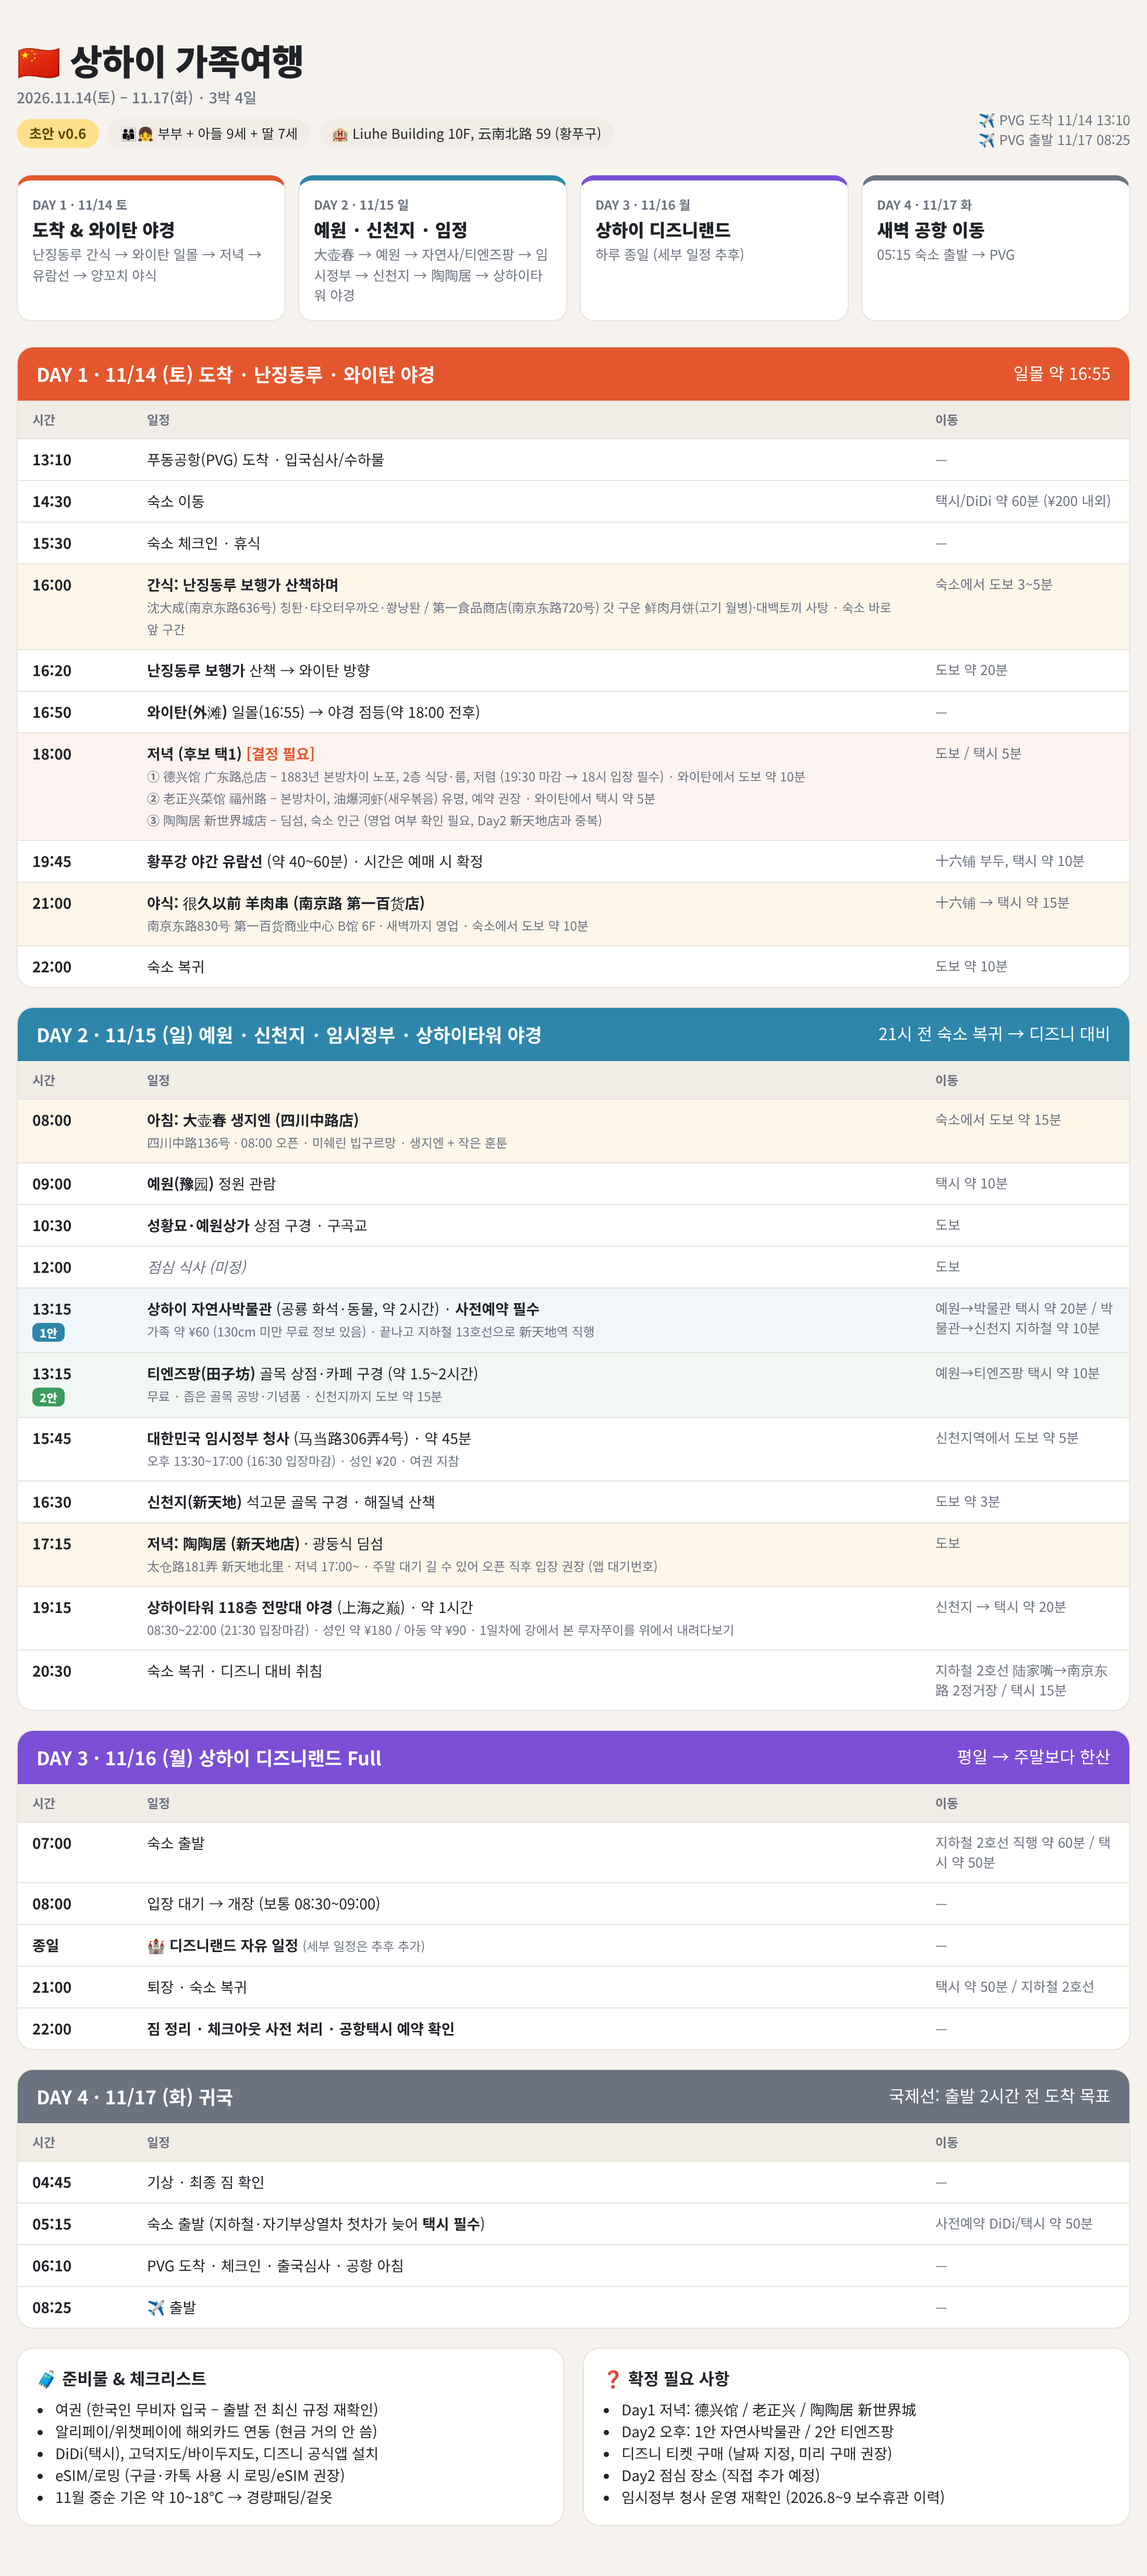
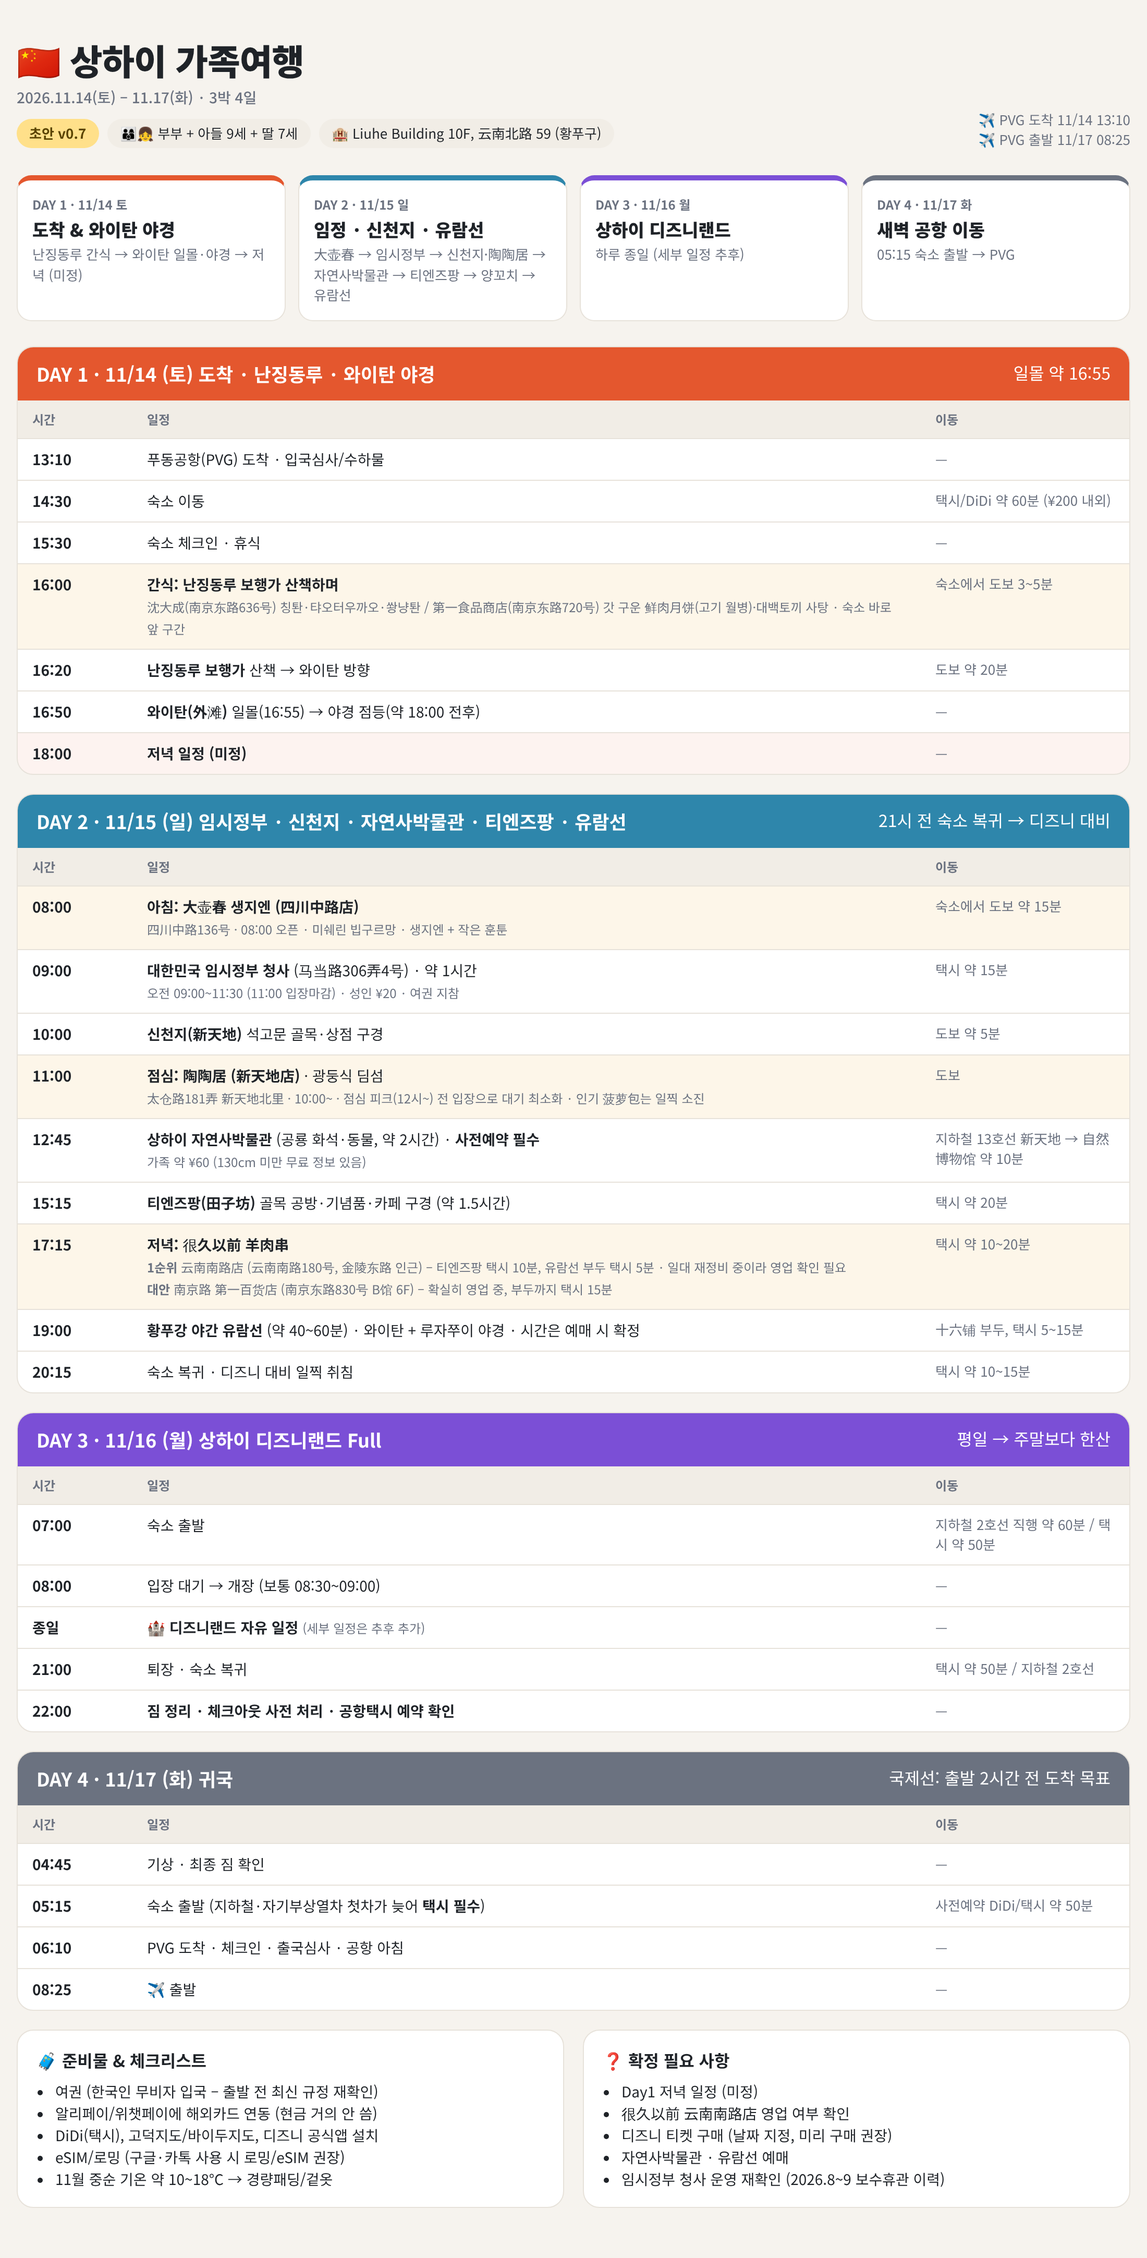
Itinerary v0.7: move river cruise to Day2, restructure Day2, clear Day1 evening
Claude-Session: https://claude.ai/code/session_01FtyK4HJW4ZkDiHshS9yHtF

diff --git a/index.html b/index.html
@@ -69,7 +69,7 @@
     <div>
       <h1>🇨🇳 상하이 가족여행 <small>2026.11.14(토) – 11.17(화) · 3박 4일</small></h1>
       <div style="margin-top:8px">
-        <span class="badge draft">초안 v0.6</span>
+        <span class="badge draft">초안 v0.7</span>
         <span class="badge">👨👩👦👧 부부 + 아들 9세 + 딸 7세</span>
         <span class="badge">🏨 Liuhe Building 10F, 云南北路 59 (황푸구)</span>
       </div>
@@ -80,8 +80,8 @@
   </header>
 
   <section class="summary">
-    <div class="sum" style="--c:var(--d1)"><div class="d">DAY 1 · 11/14 토</div><div class="t">도착 &amp; 와이탄 야경</div><div class="s">난징동루 간식 → 와이탄 일몰 → 저녁 → 유람선 → 양꼬치 야식</div></div>
-    <div class="sum" style="--c:var(--d2)"><div class="d">DAY 2 · 11/15 일</div><div class="t">예원 · 신천지 · 임정</div><div class="s">大壶春 → 예원 → 자연사/티엔즈팡 → 임시정부 → 신천지 → 陶陶居 → 상하이타워 야경</div></div>
+    <div class="sum" style="--c:var(--d1)"><div class="d">DAY 1 · 11/14 토</div><div class="t">도착 &amp; 와이탄 야경</div><div class="s">난징동루 간식 → 와이탄 일몰·야경 → 저녁 (미정)</div></div>
+    <div class="sum" style="--c:var(--d2)"><div class="d">DAY 2 · 11/15 일</div><div class="t">임정 · 신천지 · 유람선</div><div class="s">大壶春 → 임시정부 → 신천지·陶陶居 → 자연사박물관 → 티엔즈팡 → 양꼬치 → 유람선</div></div>
     <div class="sum" style="--c:var(--d3)"><div class="d">DAY 3 · 11/16 월</div><div class="t">상하이 디즈니랜드</div><div class="s">하루 종일 (세부 일정 추후)</div></div>
     <div class="sum" style="--c:var(--d4)"><div class="d">DAY 4 · 11/17 화</div><div class="t">새벽 공항 이동</div><div class="s">05:15 숙소 출발 → PVG</div></div>
   </section>
@@ -96,28 +96,23 @@
       <tr class="food"><td class="time">16:00</td><td><b>간식: 난징동루 보행가 산책하며</b><br><span class="sub">沈大成(南京东路636号) 칭퇀·탸오터우까오·쐉냥퇀 / 第一食品商店(南京东路720号) 갓 구운 鲜肉月饼(고기 월병)·대백토끼 사탕 · 숙소 바로 앞 구간</span></td><td class="move">숙소에서 도보 3~5분</td></tr>
       <tr><td class="time">16:20</td><td><b>난징동루 보행가</b> 산책 → 와이탄 방향</td><td class="move">도보 약 20분</td></tr>
       <tr><td class="time">16:50</td><td><b>와이탄(外滩)</b> 일몰(16:55) → 야경 점등(약 18:00 전후)</td><td class="move">—</td></tr>
-      <tr class="tbd"><td class="time">18:00</td><td><b>저녁 (후보 택1)</b> <span class="q">[결정 필요]</span><br><span class="sub"><b>①</b> 德兴馆 广东路总店 – 1883년 본방차이 노포, 2층 식당·룸, 저렴 (19:30 마감 → 18시 입장 필수) · 와이탄에서 도보 약 10분<br><b>②</b> 老正兴菜馆 福州路 – 본방차이, 油爆河虾(새우볶음) 유명, 예약 권장 · 와이탄에서 택시 약 5분<br><b>③</b> 陶陶居 新世界城店 – 딤섬, 숙소 인근 (영업 여부 확인 필요, Day2 新天地店과 중복)</span></td><td class="move">도보 / 택시 5분</td></tr>
-      <tr><td class="time">19:45</td><td><b>황푸강 야간 유람선</b> (약 40~60분) · 시간은 예매 시 확정</td><td class="move">十六铺 부두, 택시 약 10분</td></tr>
-      <tr class="food"><td class="time">21:00</td><td><b>야식: 很久以前 羊肉串 (南京路 第一百货店)</b><br><span class="sub">南京东路830号 第一百货商业中心 B馆 6F · 새벽까지 영업 · 숙소에서 도보 약 10분</span></td><td class="move">十六铺 → 택시 약 15분</td></tr>
-      <tr><td class="time">22:00</td><td>숙소 복귀</td><td class="move">도보 약 10분</td></tr>
+      <tr class="tbd"><td class="time">18:00</td><td><b>저녁 일정 (미정)</b></td><td class="move">—</td></tr>
     </table>
   </div>
 
   <div class="day" style="--c:var(--d2)">
-    <div class="dayhead"><b>DAY 2 · 11/15 (일) 예원 · 신천지 · 임시정부 · 상하이타워 야경</b><span>21시 전 숙소 복귀 → 디즈니 대비</span></div>
+    <div class="dayhead"><b>DAY 2 · 11/15 (일) 임시정부 · 신천지 · 자연사박물관 · 티엔즈팡 · 유람선</b><span>21시 전 숙소 복귀 → 디즈니 대비</span></div>
     <table>
       <tr><th>시간</th><th>일정</th><th>이동</th></tr>
       <tr class="food"><td class="time">08:00</td><td><b>아침: 大壶春 생지엔 (四川中路店)</b><br><span class="sub">四川中路136号 · 08:00 오픈 · 미쉐린 빕구르망 · 생지엔 + 작은 훈툰</span></td><td class="move">숙소에서 도보 약 15분</td></tr>
-      <tr><td class="time">09:00</td><td><b>예원(豫园)</b> 정원 관람</td><td class="move">택시 약 10분</td></tr>
-      <tr><td class="time">10:30</td><td><b>성황묘·예원상가</b> 상점 구경 · 구곡교</td><td class="move">도보</td></tr>
-      <tr><td class="time">12:00</td><td class="meal">점심 식사 (미정)</td><td class="move">도보</td></tr>
-      <tr class="opt1"><td class="time">13:15<br><span class="pill p1">1안</span></td><td><b>상하이 자연사박물관</b> (공룡 화석·동물, 약 2시간) · <b>사전예약 필수</b><br><span class="sub">가족 약 ¥60 (130cm 미만 무료 정보 있음) · 끝나고 지하철 13호선으로 新天地역 직행</span></td><td class="move">예원→박물관 택시 약 20분 / 박물관→신천지 지하철 약 10분</td></tr>
-      <tr class="opt2"><td class="time">13:15<br><span class="pill p2">2안</span></td><td><b>티엔즈팡(田子坊)</b> 골목 상점·카페 구경 (약 1.5~2시간)<br><span class="sub">무료 · 좁은 골목 공방·기념품 · 신천지까지 도보 약 15분</span></td><td class="move">예원→티엔즈팡 택시 약 10분</td></tr>
-      <tr><td class="time">15:45</td><td><b>대한민국 임시정부 청사</b> (马当路306弄4号) · 약 45분<br><span class="sub">오후 13:30~17:00 (16:30 입장마감) · 성인 ¥20 · 여권 지참</span></td><td class="move">신천지역에서 도보 약 5분</td></tr>
-      <tr><td class="time">16:30</td><td><b>신천지(新天地)</b> 석고문 골목 구경 · 해질녘 산책</td><td class="move">도보 약 3분</td></tr>
-      <tr class="food"><td class="time">17:15</td><td><b>저녁: 陶陶居 (新天地店)</b> · 광둥식 딤섬<br><span class="sub">太仓路181弄 新天地北里 · 저녁 17:00~ · 주말 대기 길 수 있어 오픈 직후 입장 권장 (앱 대기번호)</span></td><td class="move">도보</td></tr>
-      <tr><td class="time">19:15</td><td><b>상하이타워 118층 전망대 야경</b> (上海之巅) · 약 1시간<br><span class="sub">08:30~22:00 (21:30 입장마감) · 성인 약 ¥180 / 아동 약 ¥90 · 1일차에 강에서 본 루자쭈이를 위에서 내려다보기</span></td><td class="move">신천지 → 택시 약 20분</td></tr>
-      <tr><td class="time">20:30</td><td>숙소 복귀 · 디즈니 대비 취침</td><td class="move">지하철 2호선 陆家嘴→南京东路 2정거장 / 택시 15분</td></tr>
+      <tr><td class="time">09:00</td><td><b>대한민국 임시정부 청사</b> (马当路306弄4号) · 약 1시간<br><span class="sub">오전 09:00~11:30 (11:00 입장마감) · 성인 ¥20 · 여권 지참</span></td><td class="move">택시 약 15분</td></tr>
+      <tr><td class="time">10:00</td><td><b>신천지(新天地)</b> 석고문 골목·상점 구경</td><td class="move">도보 약 5분</td></tr>
+      <tr class="food"><td class="time">11:00</td><td><b>점심: 陶陶居 (新天地店)</b> · 광둥식 딤섬<br><span class="sub">太仓路181弄 新天地北里 · 10:00~ · 점심 피크(12시~) 전 입장으로 대기 최소화 · 인기 菠萝包는 일찍 소진</span></td><td class="move">도보</td></tr>
+      <tr><td class="time">12:45</td><td><b>상하이 자연사박물관</b> (공룡 화석·동물, 약 2시간) · <b>사전예약 필수</b><br><span class="sub">가족 약 ¥60 (130cm 미만 무료 정보 있음)</span></td><td class="move">지하철 13호선 新天地 → 自然博物馆 약 10분</td></tr>
+      <tr><td class="time">15:15</td><td><b>티엔즈팡(田子坊)</b> 골목 공방·기념품·카페 구경 (약 1.5시간)</td><td class="move">택시 약 20분</td></tr>
+      <tr class="food"><td class="time">17:15</td><td><b>저녁: 很久以前 羊肉串</b><br><span class="sub"><b>1순위</b> 云南南路店 (云南南路180号, 金陵东路 인근) – 티엔즈팡 택시 10분, 유람선 부두 택시 5분 · 일대 재정비 중이라 영업 확인 필요<br><b>대안</b> 南京路 第一百货店 (南京东路830号 B馆 6F) – 확실히 영업 중, 부두까지 택시 15분</span></td><td class="move">택시 약 10~20분</td></tr>
+      <tr><td class="time">19:00</td><td><b>황푸강 야간 유람선</b> (약 40~60분) · 와이탄 + 루자쭈이 야경 · 시간은 예매 시 확정</td><td class="move">十六铺 부두, 택시 5~15분</td></tr>
+      <tr><td class="time">20:15</td><td>숙소 복귀 · 디즈니 대비 일찍 취침</td><td class="move">택시 약 10~15분</td></tr>
     </table>
   </div>
 
@@ -158,10 +153,10 @@
     <div class="note">
       <h3>❓ 확정 필요 사항</h3>
       <ul>
-        <li>Day1 저녁: 德兴馆 / 老正兴 / 陶陶居 新世界城</li>
-        <li>Day2 오후: 1안 자연사박물관 / 2안 티엔즈팡</li>
-                <li>디즈니 티켓 구매 (날짜 지정, 미리 구매 권장)</li>
-        <li>Day2 점심 장소 (직접 추가 예정)</li>
+        <li>Day1 저녁 일정 (미정)</li>
+        <li>很久以前 云南南路店 영업 여부 확인</li>
+        <li>디즈니 티켓 구매 (날짜 지정, 미리 구매 권장)</li>
+        <li>자연사박물관 · 유람선 예매</li>
         <li>임시정부 청사 운영 재확인 (2026.8~9 보수휴관 이력)</li>
       </ul>
     </div>

diff --git a/README.md b/README.md
@@ -1,4 +1,4 @@
-# 상하이 가족여행 (2026.11.14 ~ 11.17, 3박 4일) — 초안 v0.6
+# 상하이 가족여행 (2026.11.14 ~ 11.17, 3박 4일) — 초안 v0.7
 
 - 인원: 부부 + 아들 9세 + 딸 7세
 - 숙소: Liuhe Building 10F, 59 Yunnan North Rd, 황푸구
@@ -8,8 +8,8 @@
 
 | 일자 | 테마 | 주요 일정 |
 |---|---|---|
-| Day1 11/14(토) | 도착 & 야경 | 공항→숙소, 난징동루 간식(沈大成·第一食品), 와이탄 일몰, 저녁(후보), 황푸강 유람선, 야식 很久以前 양꼬치 |
-| Day2 11/15(일) | 예원·신천지·임정 | 아침 大壶春, 예원·성황묘, 자연사박물관(1안) or 티엔즈팡(2안), 임시정부 청사, 신천지, 저녁 陶陶居(新天地店), 상하이타워 야경 |
+| Day1 11/14(토) | 도착 & 야경 | 공항→숙소, 난징동루 간식(沈大成·第一食品), 와이탄 일몰·야경, 저녁(미정) |
+| Day2 11/15(일) | 임정·신천지·유람선 | 아침 大壶春, 임시정부 청사, 신천지, 점심 陶陶居(新天地店), 자연사박물관, 티엔즈팡, 저녁 很久以前 양꼬치, 황푸강 유람선 |
 | Day3 11/16(월) | 디즈니랜드 | 종일 자유 (세부 추후), 귀가 후 짐정리 |
 | Day4 11/17(화) | 귀국 | 05:15 택시 출발 → PVG 08:25 |
 
